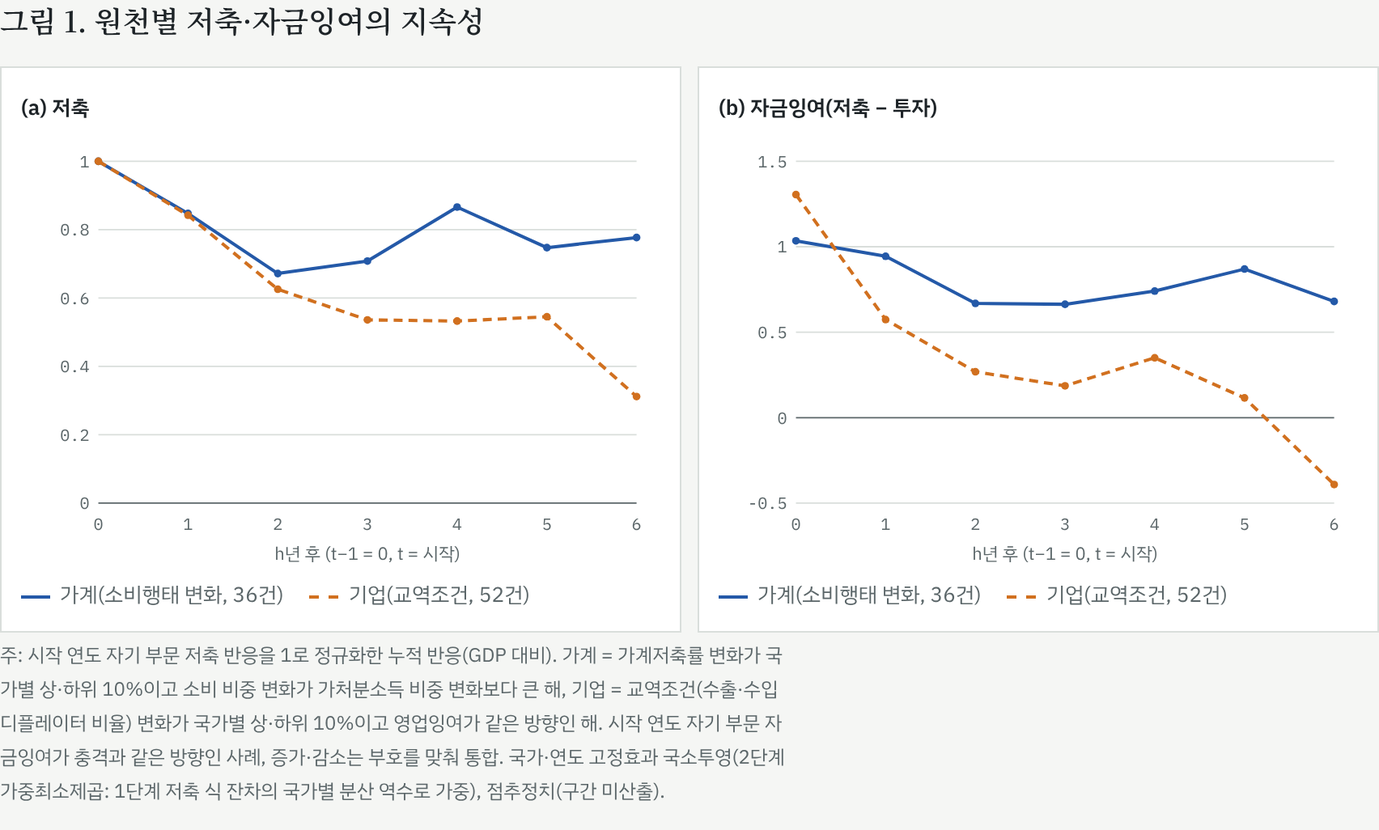
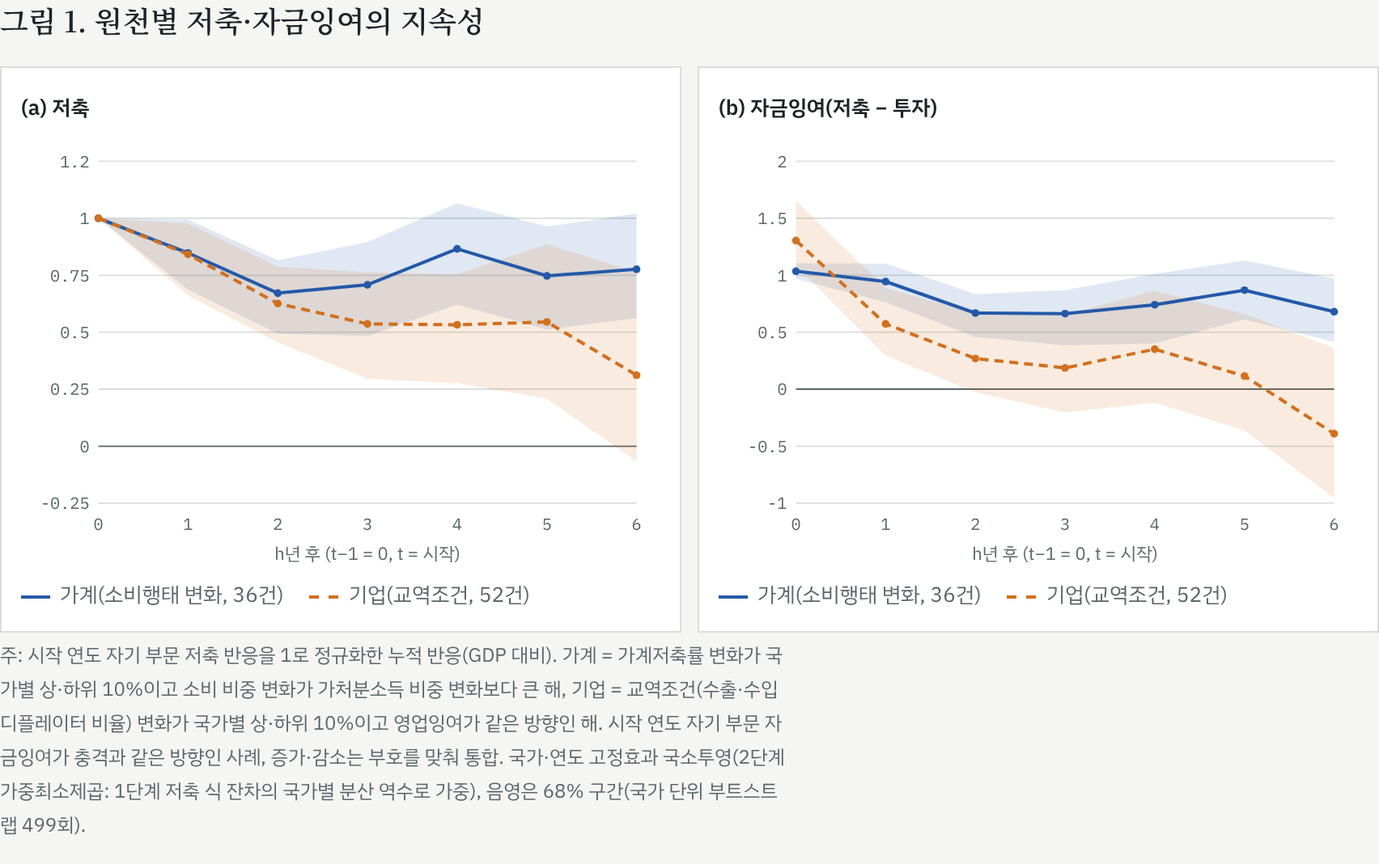
Finalize report figures: two-step weighted least squares with bands
Claude-Session: https://claude.ai/code/session_01QSFGVrqZTZBvgbV4CUsjF6

diff --git a/research/sector_saving_ca/output/ep_report_fgls_figs.html b/research/sector_saving_ca/output/ep_report_fgls_figs.html
@@ -82,4 +82,4 @@ footer { font-size: 13px; color: var(--muted); border-top: 1px solid var(--rule)
 svg .line.s1{stroke:#2459a8;fill:none;stroke-width:2.2} svg .band.s1{fill:#2459a8;opacity:.14} svg .dot.s1{fill:#2459a8}
 svg .line.s2{stroke:#d1701f;fill:none;stroke-width:2.2;stroke-dasharray:6 4} svg .band.s2{fill:#d1701f;opacity:.14} svg .dot.s2{fill:#d1701f}
 svg .line.s3{stroke:#3b8a4f;fill:none;stroke-width:2.2;stroke-dasharray:2 3} svg .dot.s3{fill:#3b8a4f}
-.sw.s1{border-color:#2459a8} .sw.s2{border-color:#d1701f;border-top-style:dashed} .sw.s3{border-color:#3b8a4f;border-top-style:dotted}</style></head><body><main style="max-width:900px"><section id="F1"><h2 style="font-size:18px">그림 1. 원천별 저축·자금잉여의 지속성</h2><div style="display:grid;grid-template-columns:1fr 1fr;gap:10px"><figure><div class="panel-title">(a) 저축</div><svg viewBox="0 0 430 290" role="img" aria-label="(a) 저축"><line class="zero" x1="52" x2="414" y1="246.0" y2="246.0"/><text class="tick" x="46" y="250.0" text-anchor="end">0</text><line class="grid" x1="52" x2="414" y1="200.0" y2="200.0"/><text class="tick" x="46" y="204.0" text-anchor="end">0.2</text><line class="grid" x1="52" x2="414" y1="154.0" y2="154.0"/><text class="tick" x="46" y="158.0" text-anchor="end">0.4</text><line class="grid" x1="52" x2="414" y1="108.0" y2="108.0"/><text class="tick" x="46" y="112.0" text-anchor="end">0.6</text><line class="grid" x1="52" x2="414" y1="62.0" y2="62.0"/><text class="tick" x="46" y="66.0" text-anchor="end">0.8</text><line class="grid" x1="52" x2="414" y1="16.0" y2="16.0"/><text class="tick" x="46" y="20.0" text-anchor="end">1</text><text class="tick" x="52.0" y="264" text-anchor="middle">0</text><text class="tick" x="112.3" y="264" text-anchor="middle">1</text><text class="tick" x="172.7" y="264" text-anchor="middle">2</text><text class="tick" x="233.0" y="264" text-anchor="middle">3</text><text class="tick" x="293.3" y="264" text-anchor="middle">4</text><text class="tick" x="353.7" y="264" text-anchor="middle">5</text><text class="tick" x="414.0" y="264" text-anchor="middle">6</text><text class="axis" x="233.0" y="284" text-anchor="middle">h년 후 (t−1 = 0, t = 시작)</text><polygon class="band s1" points="52.0,16.0 112.3,51.1 172.7,91.5 233.0,83.1 293.3,46.8 353.7,74.1 414.0,67.3 414.0,67.3 353.7,74.1 293.3,46.8 233.0,83.1 172.7,91.5 112.3,51.1 52.0,16.0"/><polygon class="band s2" points="52.0,16.0 112.3,52.3 172.7,102.1 233.0,122.7 293.3,123.5 353.7,120.6 414.0,174.3 414.0,174.3 353.7,120.6 293.3,123.5 233.0,122.7 172.7,102.1 112.3,52.3 52.0,16.0"/><polyline class="line s1" points="52.0,16.0 112.3,51.1 172.7,91.5 233.0,83.1 293.3,46.8 353.7,74.1 414.0,67.3"/><circle class="dot s1" cx="52.0" cy="16.0" r="2.6"/><circle class="dot s1" cx="112.3" cy="51.1" r="2.6"/><circle class="dot s1" cx="172.7" cy="91.5" r="2.6"/><circle class="dot s1" cx="233.0" cy="83.1" r="2.6"/><circle class="dot s1" cx="293.3" cy="46.8" r="2.6"/><circle class="dot s1" cx="353.7" cy="74.1" r="2.6"/><circle class="dot s1" cx="414.0" cy="67.3" r="2.6"/><polyline class="line s2" points="52.0,16.0 112.3,52.3 172.7,102.1 233.0,122.7 293.3,123.5 353.7,120.6 414.0,174.3"/><circle class="dot s2" cx="52.0" cy="16.0" r="2.6"/><circle class="dot s2" cx="112.3" cy="52.3" r="2.6"/><circle class="dot s2" cx="172.7" cy="102.1" r="2.6"/><circle class="dot s2" cx="233.0" cy="122.7" r="2.6"/><circle class="dot s2" cx="293.3" cy="123.5" r="2.6"/><circle class="dot s2" cx="353.7" cy="120.6" r="2.6"/><circle class="dot s2" cx="414.0" cy="174.3" r="2.6"/></svg><div class="legend"><span><i class="sw s1"></i>가계(소비행태 변화, 36건)</span><span><i class="sw s2"></i>기업(교역조건, 52건)</span></div></figure><figure><div class="panel-title">(b) 자금잉여(저축 − 투자)</div><svg viewBox="0 0 430 290" role="img" aria-label="(b) 자금잉여(저축 − 투자)"><line class="grid" x1="52" x2="414" y1="246.0" y2="246.0"/><text class="tick" x="46" y="250.0" text-anchor="end">-0.5</text><line class="zero" x1="52" x2="414" y1="188.5" y2="188.5"/><text class="tick" x="46" y="192.5" text-anchor="end">0</text><line class="grid" x1="52" x2="414" y1="131.0" y2="131.0"/><text class="tick" x="46" y="135.0" text-anchor="end">0.5</text><line class="grid" x1="52" x2="414" y1="73.5" y2="73.5"/><text class="tick" x="46" y="77.5" text-anchor="end">1</text><line class="grid" x1="52" x2="414" y1="16.0" y2="16.0"/><text class="tick" x="46" y="20.0" text-anchor="end">1.5</text><text class="tick" x="52.0" y="264" text-anchor="middle">0</text><text class="tick" x="112.3" y="264" text-anchor="middle">1</text><text class="tick" x="172.7" y="264" text-anchor="middle">2</text><text class="tick" x="233.0" y="264" text-anchor="middle">3</text><text class="tick" x="293.3" y="264" text-anchor="middle">4</text><text class="tick" x="353.7" y="264" text-anchor="middle">5</text><text class="tick" x="414.0" y="264" text-anchor="middle">6</text><text class="axis" x="233.0" y="284" text-anchor="middle">h년 후 (t−1 = 0, t = 시작)</text><polygon class="band s1" points="52.0,69.5 112.3,79.9 172.7,111.6 233.0,112.2 293.3,103.3 353.7,88.5 414.0,110.3 414.0,110.3 353.7,88.5 293.3,103.3 233.0,112.2 172.7,111.6 112.3,79.9 52.0,69.5"/><polygon class="band s2" points="52.0,38.4 112.3,122.5 172.7,157.6 233.0,167.1 293.3,148.2 353.7,175.2 414.0,233.5 414.0,233.5 353.7,175.2 293.3,148.2 233.0,167.1 172.7,157.6 112.3,122.5 52.0,38.4"/><polyline class="line s1" points="52.0,69.5 112.3,79.9 172.7,111.6 233.0,112.2 293.3,103.3 353.7,88.5 414.0,110.3"/><circle class="dot s1" cx="52.0" cy="69.5" r="2.6"/><circle class="dot s1" cx="112.3" cy="79.9" r="2.6"/><circle class="dot s1" cx="172.7" cy="111.6" r="2.6"/><circle class="dot s1" cx="233.0" cy="112.2" r="2.6"/><circle class="dot s1" cx="293.3" cy="103.3" r="2.6"/><circle class="dot s1" cx="353.7" cy="88.5" r="2.6"/><circle class="dot s1" cx="414.0" cy="110.3" r="2.6"/><polyline class="line s2" points="52.0,38.4 112.3,122.5 172.7,157.6 233.0,167.1 293.3,148.2 353.7,175.2 414.0,233.5"/><circle class="dot s2" cx="52.0" cy="38.4" r="2.6"/><circle class="dot s2" cx="112.3" cy="122.5" r="2.6"/><circle class="dot s2" cx="172.7" cy="157.6" r="2.6"/><circle class="dot s2" cx="233.0" cy="167.1" r="2.6"/><circle class="dot s2" cx="293.3" cy="148.2" r="2.6"/><circle class="dot s2" cx="353.7" cy="175.2" r="2.6"/><circle class="dot s2" cx="414.0" cy="233.5" r="2.6"/></svg><div class="legend"><span><i class="sw s1"></i>가계(소비행태 변화, 36건)</span><span><i class="sw s2"></i>기업(교역조건, 52건)</span></div></figure></div><p class="ci" style="font-size:12px">주: 시작 연도 자기 부문 저축 반응을 1로 정규화한 누적 반응(GDP 대비). 가계 = 가계저축률 변화가 국가별 상·하위 10%이고 소비 비중 변화가 가처분소득 비중 변화보다 큰 해, 기업 = 교역조건(수출·수입 디플레이터 비율) 변화가 국가별 상·하위 10%이고 영업잉여가 같은 방향인 해. 시작 연도 자기 부문 자금잉여가 충격과 같은 방향인 사례, 증가·감소는 부호를 맞춰 통합. 국가·연도 고정효과 국소투영(2단계 가중최소제곱: 1단계 저축 식 잔차의 국가별 분산 역수로 가중), 점추정치(구간 미산출).</p></section><section id="F2"><h2 style="font-size:18px">그림 2. 기업 흑자 소멸 경로와 가계 소비행태</h2><div style="display:grid;grid-template-columns:1fr 1fr;gap:10px"><figure><div class="panel-title">(a) 기업: 영업잉여·순배당·고정투자</div><svg viewBox="0 0 430 290" role="img" aria-label="(a) 기업: 영업잉여·순배당·고정투자"><line class="grid" x1="52" x2="414" y1="246.0" y2="246.0"/><text class="tick" x="46" y="250.0" text-anchor="end">-0.25</text><line class="zero" x1="52" x2="414" y1="207.7" y2="207.7"/><text class="tick" x="46" y="211.7" text-anchor="end">0</text><line class="grid" x1="52" x2="414" y1="169.3" y2="169.3"/><text class="tick" x="46" y="173.3" text-anchor="end">0.25</text><line class="grid" x1="52" x2="414" y1="131.0" y2="131.0"/><text class="tick" x="46" y="135.0" text-anchor="end">0.5</text><line class="grid" x1="52" x2="414" y1="92.7" y2="92.7"/><text class="tick" x="46" y="96.7" text-anchor="end">0.75</text><line class="grid" x1="52" x2="414" y1="54.3" y2="54.3"/><text class="tick" x="46" y="58.3" text-anchor="end">1</text><line class="grid" x1="52" x2="414" y1="16.0" y2="16.0"/><text class="tick" x="46" y="20.0" text-anchor="end">1.2</text><text class="tick" x="52.0" y="264" text-anchor="middle">0</text><text class="tick" x="112.3" y="264" text-anchor="middle">1</text><text class="tick" x="172.7" y="264" text-anchor="middle">2</text><text class="tick" x="233.0" y="264" text-anchor="middle">3</text><text class="tick" x="293.3" y="264" text-anchor="middle">4</text><text class="tick" x="353.7" y="264" text-anchor="middle">5</text><text class="tick" x="414.0" y="264" text-anchor="middle">6</text><text class="axis" x="233.0" y="284" text-anchor="middle">h년 후 (t−1 = 0, t = 시작)</text><polyline class="line s1" points="52.0,36.2 112.3,60.9 172.7,67.2 233.0,88.5 293.3,58.6 353.7,66.3 414.0,100.2"/><circle class="dot s1" cx="52.0" cy="36.2" r="2.6"/><circle class="dot s1" cx="112.3" cy="60.9" r="2.6"/><circle class="dot s1" cx="172.7" cy="67.2" r="2.6"/><circle class="dot s1" cx="233.0" cy="88.5" r="2.6"/><circle class="dot s1" cx="293.3" cy="58.6" r="2.6"/><circle class="dot s1" cx="353.7" cy="66.3" r="2.6"/><circle class="dot s1" cx="414.0" cy="100.2" r="2.6"/><polyline class="line s2" points="52.0,221.0 112.3,186.7 172.7,187.4 233.0,204.6 293.3,163.8 353.7,169.5 414.0,158.8"/><circle class="dot s2" cx="52.0" cy="221.0" r="2.6"/><circle class="dot s2" cx="112.3" cy="186.7" r="2.6"/><circle class="dot s2" cx="172.7" cy="187.4" r="2.6"/><circle class="dot s2" cx="233.0" cy="204.6" r="2.6"/><circle class="dot s2" cx="293.3" cy="163.8" r="2.6"/><circle class="dot s2" cx="353.7" cy="169.5" r="2.6"/><circle class="dot s2" cx="414.0" cy="158.8" r="2.6"/><polyline class="line s3" points="52.0,217.1 112.3,196.8 172.7,154.4 233.0,149.4 293.3,181.9 353.7,149.8 414.0,118.9"/><circle class="dot s3" cx="52.0" cy="217.1" r="2.6"/><circle class="dot s3" cx="112.3" cy="196.8" r="2.6"/><circle class="dot s3" cx="172.7" cy="154.4" r="2.6"/><circle class="dot s3" cx="233.0" cy="149.4" r="2.6"/><circle class="dot s3" cx="293.3" cy="181.9" r="2.6"/><circle class="dot s3" cx="353.7" cy="149.8" r="2.6"/><circle class="dot s3" cx="414.0" cy="118.9" r="2.6"/></svg><div class="legend"><span><i class="sw s1"></i>영업잉여</span><span><i class="sw s2"></i>순배당 지급(지급 − 수취)</span><span><i class="sw s3"></i>고정투자</span></div></figure><figure><div class="panel-title">(b) 가계: 가처분소득·소비</div><svg viewBox="0 0 430 290" role="img" aria-label="(b) 가계: 가처분소득·소비"><line class="grid" x1="52" x2="414" y1="246.0" y2="246.0"/><text class="tick" x="46" y="250.0" text-anchor="end">-1</text><line class="grid" x1="52" x2="414" y1="200.0" y2="200.0"/><text class="tick" x="46" y="204.0" text-anchor="end">-0.75</text><line class="grid" x1="52" x2="414" y1="154.0" y2="154.0"/><text class="tick" x="46" y="158.0" text-anchor="end">-0.5</text><line class="grid" x1="52" x2="414" y1="108.0" y2="108.0"/><text class="tick" x="46" y="112.0" text-anchor="end">-0.25</text><line class="zero" x1="52" x2="414" y1="62.0" y2="62.0"/><text class="tick" x="46" y="66.0" text-anchor="end">0</text><line class="grid" x1="52" x2="414" y1="16.0" y2="16.0"/><text class="tick" x="46" y="20.0" text-anchor="end">0.25</text><text class="tick" x="52.0" y="264" text-anchor="middle">0</text><text class="tick" x="112.3" y="264" text-anchor="middle">1</text><text class="tick" x="172.7" y="264" text-anchor="middle">2</text><text class="tick" x="233.0" y="264" text-anchor="middle">3</text><text class="tick" x="293.3" y="264" text-anchor="middle">4</text><text class="tick" x="353.7" y="264" text-anchor="middle">5</text><text class="tick" x="414.0" y="264" text-anchor="middle">6</text><text class="axis" x="233.0" y="284" text-anchor="middle">h년 후 (t−1 = 0, t = 시작)</text><polyline class="line s1" points="52.0,39.4 112.3,66.9 172.7,75.9 233.0,76.3 293.3,19.6 353.7,49.4 414.0,45.1"/><circle class="dot s1" cx="52.0" cy="39.4" r="2.6"/><circle class="dot s1" cx="112.3" cy="66.9" r="2.6"/><circle class="dot s1" cx="172.7" cy="75.9" r="2.6"/><circle class="dot s1" cx="233.0" cy="76.3" r="2.6"/><circle class="dot s1" cx="293.3" cy="19.6" r="2.6"/><circle class="dot s1" cx="353.7" cy="49.4" r="2.6"/><circle class="dot s1" cx="414.0" cy="45.1" r="2.6"/><polyline class="line s2" points="52.0,213.3 112.3,213.3 172.7,189.3 233.0,194.6 293.3,166.3 353.7,188.5 414.0,184.6"/><circle class="dot s2" cx="52.0" cy="213.3" r="2.6"/><circle class="dot s2" cx="112.3" cy="213.3" r="2.6"/><circle class="dot s2" cx="172.7" cy="189.3" r="2.6"/><circle class="dot s2" cx="233.0" cy="194.6" r="2.6"/><circle class="dot s2" cx="293.3" cy="166.3" r="2.6"/><circle class="dot s2" cx="353.7" cy="188.5" r="2.6"/><circle class="dot s2" cx="414.0" cy="184.6" r="2.6"/></svg><div class="legend"><span><i class="sw s1"></i>가처분소득</span><span><i class="sw s2"></i>소비</span></div></figure></div><p class="ci" style="font-size:12px">주: 시작 연도 자기 부문 저축 반응을 1로 정규화한 누적 반응(GDP 대비). 가계 = 가계저축률 변화가 국가별 상·하위 10%이고 소비 비중 변화가 가처분소득 비중 변화보다 큰 해, 기업 = 교역조건(수출·수입 디플레이터 비율) 변화가 국가별 상·하위 10%이고 영업잉여가 같은 방향인 해. 시작 연도 자기 부문 자금잉여가 충격과 같은 방향인 사례, 증가·감소는 부호를 맞춰 통합. 국가·연도 고정효과 국소투영(2단계 가중최소제곱: 1단계 저축 식 잔차의 국가별 분산 역수로 가중), 점추정치.</p></section></main></body></html>
+.sw.s1{border-color:#2459a8} .sw.s2{border-color:#d1701f;border-top-style:dashed} .sw.s3{border-color:#3b8a4f;border-top-style:dotted}</style></head><body><main style="max-width:900px"><section id="F1"><h2 style="font-size:18px">그림 1. 원천별 저축·자금잉여의 지속성</h2><div style="display:grid;grid-template-columns:1fr 1fr;gap:10px"><figure><div class="panel-title">(a) 저축</div><svg viewBox="0 0 430 290" role="img" aria-label="(a) 저축"><line class="grid" x1="52" x2="414" y1="246.0" y2="246.0"/><text class="tick" x="46" y="250.0" text-anchor="end">-0.25</text><line class="zero" x1="52" x2="414" y1="207.7" y2="207.7"/><text class="tick" x="46" y="211.7" text-anchor="end">0</text><line class="grid" x1="52" x2="414" y1="169.3" y2="169.3"/><text class="tick" x="46" y="173.3" text-anchor="end">0.25</text><line class="grid" x1="52" x2="414" y1="131.0" y2="131.0"/><text class="tick" x="46" y="135.0" text-anchor="end">0.5</text><line class="grid" x1="52" x2="414" y1="92.7" y2="92.7"/><text class="tick" x="46" y="96.7" text-anchor="end">0.75</text><line class="grid" x1="52" x2="414" y1="54.3" y2="54.3"/><text class="tick" x="46" y="58.3" text-anchor="end">1</text><line class="grid" x1="52" x2="414" y1="16.0" y2="16.0"/><text class="tick" x="46" y="20.0" text-anchor="end">1.2</text><text class="tick" x="52.0" y="264" text-anchor="middle">0</text><text class="tick" x="112.3" y="264" text-anchor="middle">1</text><text class="tick" x="172.7" y="264" text-anchor="middle">2</text><text class="tick" x="233.0" y="264" text-anchor="middle">3</text><text class="tick" x="293.3" y="264" text-anchor="middle">4</text><text class="tick" x="353.7" y="264" text-anchor="middle">5</text><text class="tick" x="414.0" y="264" text-anchor="middle">6</text><text class="axis" x="233.0" y="284" text-anchor="middle">h년 후 (t−1 = 0, t = 시작)</text><polygon class="band s1" points="52.0,54.3 112.3,55.3 172.7,82.6 233.0,70.3 293.3,44.2 353.7,59.9 414.0,51.1 414.0,121.5 353.7,129.2 293.3,112.4 233.0,133.5 172.7,132.0 112.3,102.3 52.0,54.3"/><polygon class="band s2" points="52.0,54.3 112.3,57.8 172.7,86.8 233.0,90.7 293.3,92.0 353.7,71.8 414.0,90.6 414.0,217.9 353.7,175.7 293.3,165.3 233.0,162.3 172.7,137.9 112.3,106.3 52.0,54.3"/><polyline class="line s1" points="52.0,54.3 112.3,77.7 172.7,104.7 233.0,99.1 293.3,74.9 353.7,93.1 414.0,88.6"/><circle class="dot s1" cx="52.0" cy="54.3" r="2.6"/><circle class="dot s1" cx="112.3" cy="77.7" r="2.6"/><circle class="dot s1" cx="172.7" cy="104.7" r="2.6"/><circle class="dot s1" cx="233.0" cy="99.1" r="2.6"/><circle class="dot s1" cx="293.3" cy="74.9" r="2.6"/><circle class="dot s1" cx="353.7" cy="93.1" r="2.6"/><circle class="dot s1" cx="414.0" cy="88.6" r="2.6"/><polyline class="line s2" points="52.0,54.3 112.3,78.6 172.7,111.7 233.0,125.4 293.3,126.0 353.7,124.1 414.0,159.9"/><circle class="dot s2" cx="52.0" cy="54.3" r="2.6"/><circle class="dot s2" cx="112.3" cy="78.6" r="2.6"/><circle class="dot s2" cx="172.7" cy="111.7" r="2.6"/><circle class="dot s2" cx="233.0" cy="125.4" r="2.6"/><circle class="dot s2" cx="293.3" cy="126.0" r="2.6"/><circle class="dot s2" cx="353.7" cy="124.1" r="2.6"/><circle class="dot s2" cx="414.0" cy="159.9" r="2.6"/></svg><div class="legend"><span><i class="sw s1"></i>가계(소비행태 변화, 36건)</span><span><i class="sw s2"></i>기업(교역조건, 52건)</span></div></figure><figure><div class="panel-title">(b) 자금잉여(저축 − 투자)</div><svg viewBox="0 0 430 290" role="img" aria-label="(b) 자금잉여(저축 − 투자)"><line class="grid" x1="52" x2="414" y1="246.0" y2="246.0"/><text class="tick" x="46" y="250.0" text-anchor="end">-1</text><line class="grid" x1="52" x2="414" y1="207.7" y2="207.7"/><text class="tick" x="46" y="211.7" text-anchor="end">-0.5</text><line class="zero" x1="52" x2="414" y1="169.3" y2="169.3"/><text class="tick" x="46" y="173.3" text-anchor="end">0</text><line class="grid" x1="52" x2="414" y1="131.0" y2="131.0"/><text class="tick" x="46" y="135.0" text-anchor="end">0.5</text><line class="grid" x1="52" x2="414" y1="92.7" y2="92.7"/><text class="tick" x="46" y="96.7" text-anchor="end">1</text><line class="grid" x1="52" x2="414" y1="54.3" y2="54.3"/><text class="tick" x="46" y="58.3" text-anchor="end">1.5</text><line class="grid" x1="52" x2="414" y1="16.0" y2="16.0"/><text class="tick" x="46" y="20.0" text-anchor="end">2</text><text class="tick" x="52.0" y="264" text-anchor="middle">0</text><text class="tick" x="112.3" y="264" text-anchor="middle">1</text><text class="tick" x="172.7" y="264" text-anchor="middle">2</text><text class="tick" x="233.0" y="264" text-anchor="middle">3</text><text class="tick" x="293.3" y="264" text-anchor="middle">4</text><text class="tick" x="353.7" y="264" text-anchor="middle">5</text><text class="tick" x="414.0" y="264" text-anchor="middle">6</text><text class="axis" x="233.0" y="284" text-anchor="middle">h년 후 (t−1 = 0, t = 시작)</text><polygon class="band s1" points="52.0,84.7 112.3,84.8 172.7,105.3 233.0,102.8 293.3,91.7 353.7,82.8 414.0,94.8 414.0,137.6 353.7,122.3 293.3,138.5 233.0,139.8 172.7,134.2 112.3,110.8 52.0,95.0"/><polygon class="band s2" points="52.0,42.4 112.3,101.4 172.7,118.2 233.0,119.2 293.3,103.2 353.7,118.8 414.0,141.7 414.0,242.5 353.7,197.0 293.3,178.4 233.0,184.9 172.7,171.5 112.3,146.7 52.0,86.1"/><polyline class="line s1" points="52.0,90.0 112.3,96.9 172.7,118.1 233.0,118.5 293.3,112.5 353.7,102.7 414.0,117.2"/><circle class="dot s1" cx="52.0" cy="90.0" r="2.6"/><circle class="dot s1" cx="112.3" cy="96.9" r="2.6"/><circle class="dot s1" cx="172.7" cy="118.1" r="2.6"/><circle class="dot s1" cx="233.0" cy="118.5" r="2.6"/><circle class="dot s1" cx="293.3" cy="112.5" r="2.6"/><circle class="dot s1" cx="353.7" cy="102.7" r="2.6"/><circle class="dot s1" cx="414.0" cy="117.2" r="2.6"/><polyline class="line s2" points="52.0,69.3 112.3,125.4 172.7,148.7 233.0,155.0 293.3,142.4 353.7,160.5 414.0,199.3"/><circle class="dot s2" cx="52.0" cy="69.3" r="2.6"/><circle class="dot s2" cx="112.3" cy="125.4" r="2.6"/><circle class="dot s2" cx="172.7" cy="148.7" r="2.6"/><circle class="dot s2" cx="233.0" cy="155.0" r="2.6"/><circle class="dot s2" cx="293.3" cy="142.4" r="2.6"/><circle class="dot s2" cx="353.7" cy="160.5" r="2.6"/><circle class="dot s2" cx="414.0" cy="199.3" r="2.6"/></svg><div class="legend"><span><i class="sw s1"></i>가계(소비행태 변화, 36건)</span><span><i class="sw s2"></i>기업(교역조건, 52건)</span></div></figure></div><p class="ci" style="font-size:12px">주: 시작 연도 자기 부문 저축 반응을 1로 정규화한 누적 반응(GDP 대비). 가계 = 가계저축률 변화가 국가별 상·하위 10%이고 소비 비중 변화가 가처분소득 비중 변화보다 큰 해, 기업 = 교역조건(수출·수입 디플레이터 비율) 변화가 국가별 상·하위 10%이고 영업잉여가 같은 방향인 해. 시작 연도 자기 부문 자금잉여가 충격과 같은 방향인 사례, 증가·감소는 부호를 맞춰 통합. 국가·연도 고정효과 국소투영(2단계 가중최소제곱: 1단계 저축 식 잔차의 국가별 분산 역수로 가중), 음영은 68% 구간(국가 단위 부트스트랩 499회).</p></section><section id="F2"><h2 style="font-size:18px">그림 2. 기업 흑자 소멸 경로와 가계 소비행태</h2><div style="display:grid;grid-template-columns:1fr 1fr;gap:10px"><figure><div class="panel-title">(a) 기업: 영업잉여·순배당·고정투자</div><svg viewBox="0 0 430 290" role="img" aria-label="(a) 기업: 영업잉여·순배당·고정투자"><line class="grid" x1="52" x2="414" y1="246.0" y2="246.0"/><text class="tick" x="46" y="250.0" text-anchor="end">-0.25</text><line class="zero" x1="52" x2="414" y1="207.7" y2="207.7"/><text class="tick" x="46" y="211.7" text-anchor="end">0</text><line class="grid" x1="52" x2="414" y1="169.3" y2="169.3"/><text class="tick" x="46" y="173.3" text-anchor="end">0.25</text><line class="grid" x1="52" x2="414" y1="131.0" y2="131.0"/><text class="tick" x="46" y="135.0" text-anchor="end">0.5</text><line class="grid" x1="52" x2="414" y1="92.7" y2="92.7"/><text class="tick" x="46" y="96.7" text-anchor="end">0.75</text><line class="grid" x1="52" x2="414" y1="54.3" y2="54.3"/><text class="tick" x="46" y="58.3" text-anchor="end">1</text><line class="grid" x1="52" x2="414" y1="16.0" y2="16.0"/><text class="tick" x="46" y="20.0" text-anchor="end">1.2</text><text class="tick" x="52.0" y="264" text-anchor="middle">0</text><text class="tick" x="112.3" y="264" text-anchor="middle">1</text><text class="tick" x="172.7" y="264" text-anchor="middle">2</text><text class="tick" x="233.0" y="264" text-anchor="middle">3</text><text class="tick" x="293.3" y="264" text-anchor="middle">4</text><text class="tick" x="353.7" y="264" text-anchor="middle">5</text><text class="tick" x="414.0" y="264" text-anchor="middle">6</text><text class="axis" x="233.0" y="284" text-anchor="middle">h년 후 (t−1 = 0, t = 시작)</text><polyline class="line s1" points="52.0,36.2 112.3,60.9 172.7,67.2 233.0,88.5 293.3,58.6 353.7,66.3 414.0,100.2"/><circle class="dot s1" cx="52.0" cy="36.2" r="2.6"/><circle class="dot s1" cx="112.3" cy="60.9" r="2.6"/><circle class="dot s1" cx="172.7" cy="67.2" r="2.6"/><circle class="dot s1" cx="233.0" cy="88.5" r="2.6"/><circle class="dot s1" cx="293.3" cy="58.6" r="2.6"/><circle class="dot s1" cx="353.7" cy="66.3" r="2.6"/><circle class="dot s1" cx="414.0" cy="100.2" r="2.6"/><polyline class="line s2" points="52.0,221.0 112.3,186.7 172.7,187.4 233.0,204.6 293.3,163.8 353.7,169.5 414.0,158.8"/><circle class="dot s2" cx="52.0" cy="221.0" r="2.6"/><circle class="dot s2" cx="112.3" cy="186.7" r="2.6"/><circle class="dot s2" cx="172.7" cy="187.4" r="2.6"/><circle class="dot s2" cx="233.0" cy="204.6" r="2.6"/><circle class="dot s2" cx="293.3" cy="163.8" r="2.6"/><circle class="dot s2" cx="353.7" cy="169.5" r="2.6"/><circle class="dot s2" cx="414.0" cy="158.8" r="2.6"/><polyline class="line s3" points="52.0,217.1 112.3,196.8 172.7,154.4 233.0,149.4 293.3,181.9 353.7,149.8 414.0,118.9"/><circle class="dot s3" cx="52.0" cy="217.1" r="2.6"/><circle class="dot s3" cx="112.3" cy="196.8" r="2.6"/><circle class="dot s3" cx="172.7" cy="154.4" r="2.6"/><circle class="dot s3" cx="233.0" cy="149.4" r="2.6"/><circle class="dot s3" cx="293.3" cy="181.9" r="2.6"/><circle class="dot s3" cx="353.7" cy="149.8" r="2.6"/><circle class="dot s3" cx="414.0" cy="118.9" r="2.6"/></svg><div class="legend"><span><i class="sw s1"></i>영업잉여</span><span><i class="sw s2"></i>순배당 지급(지급 − 수취)</span><span><i class="sw s3"></i>고정투자</span></div></figure><figure><div class="panel-title">(b) 가계: 가처분소득·소비</div><svg viewBox="0 0 430 290" role="img" aria-label="(b) 가계: 가처분소득·소비"><line class="grid" x1="52" x2="414" y1="246.0" y2="246.0"/><text class="tick" x="46" y="250.0" text-anchor="end">-1</text><line class="grid" x1="52" x2="414" y1="200.0" y2="200.0"/><text class="tick" x="46" y="204.0" text-anchor="end">-0.75</text><line class="grid" x1="52" x2="414" y1="154.0" y2="154.0"/><text class="tick" x="46" y="158.0" text-anchor="end">-0.5</text><line class="grid" x1="52" x2="414" y1="108.0" y2="108.0"/><text class="tick" x="46" y="112.0" text-anchor="end">-0.25</text><line class="zero" x1="52" x2="414" y1="62.0" y2="62.0"/><text class="tick" x="46" y="66.0" text-anchor="end">0</text><line class="grid" x1="52" x2="414" y1="16.0" y2="16.0"/><text class="tick" x="46" y="20.0" text-anchor="end">0.25</text><text class="tick" x="52.0" y="264" text-anchor="middle">0</text><text class="tick" x="112.3" y="264" text-anchor="middle">1</text><text class="tick" x="172.7" y="264" text-anchor="middle">2</text><text class="tick" x="233.0" y="264" text-anchor="middle">3</text><text class="tick" x="293.3" y="264" text-anchor="middle">4</text><text class="tick" x="353.7" y="264" text-anchor="middle">5</text><text class="tick" x="414.0" y="264" text-anchor="middle">6</text><text class="axis" x="233.0" y="284" text-anchor="middle">h년 후 (t−1 = 0, t = 시작)</text><polyline class="line s1" points="52.0,39.4 112.3,66.9 172.7,75.9 233.0,76.3 293.3,19.6 353.7,49.4 414.0,45.1"/><circle class="dot s1" cx="52.0" cy="39.4" r="2.6"/><circle class="dot s1" cx="112.3" cy="66.9" r="2.6"/><circle class="dot s1" cx="172.7" cy="75.9" r="2.6"/><circle class="dot s1" cx="233.0" cy="76.3" r="2.6"/><circle class="dot s1" cx="293.3" cy="19.6" r="2.6"/><circle class="dot s1" cx="353.7" cy="49.4" r="2.6"/><circle class="dot s1" cx="414.0" cy="45.1" r="2.6"/><polyline class="line s2" points="52.0,213.3 112.3,213.3 172.7,189.3 233.0,194.6 293.3,166.3 353.7,188.5 414.0,184.6"/><circle class="dot s2" cx="52.0" cy="213.3" r="2.6"/><circle class="dot s2" cx="112.3" cy="213.3" r="2.6"/><circle class="dot s2" cx="172.7" cy="189.3" r="2.6"/><circle class="dot s2" cx="233.0" cy="194.6" r="2.6"/><circle class="dot s2" cx="293.3" cy="166.3" r="2.6"/><circle class="dot s2" cx="353.7" cy="188.5" r="2.6"/><circle class="dot s2" cx="414.0" cy="184.6" r="2.6"/></svg><div class="legend"><span><i class="sw s1"></i>가처분소득</span><span><i class="sw s2"></i>소비</span></div></figure></div><p class="ci" style="font-size:12px">주: 시작 연도 자기 부문 저축 반응을 1로 정규화한 누적 반응(GDP 대비). 가계 = 가계저축률 변화가 국가별 상·하위 10%이고 소비 비중 변화가 가처분소득 비중 변화보다 큰 해, 기업 = 교역조건(수출·수입 디플레이터 비율) 변화가 국가별 상·하위 10%이고 영업잉여가 같은 방향인 해. 시작 연도 자기 부문 자금잉여가 충격과 같은 방향인 사례, 증가·감소는 부호를 맞춰 통합. 국가·연도 고정효과 국소투영(2단계 가중최소제곱: 1단계 저축 식 잔차의 국가별 분산 역수로 가중), 점추정치.</p></section></main></body></html>
